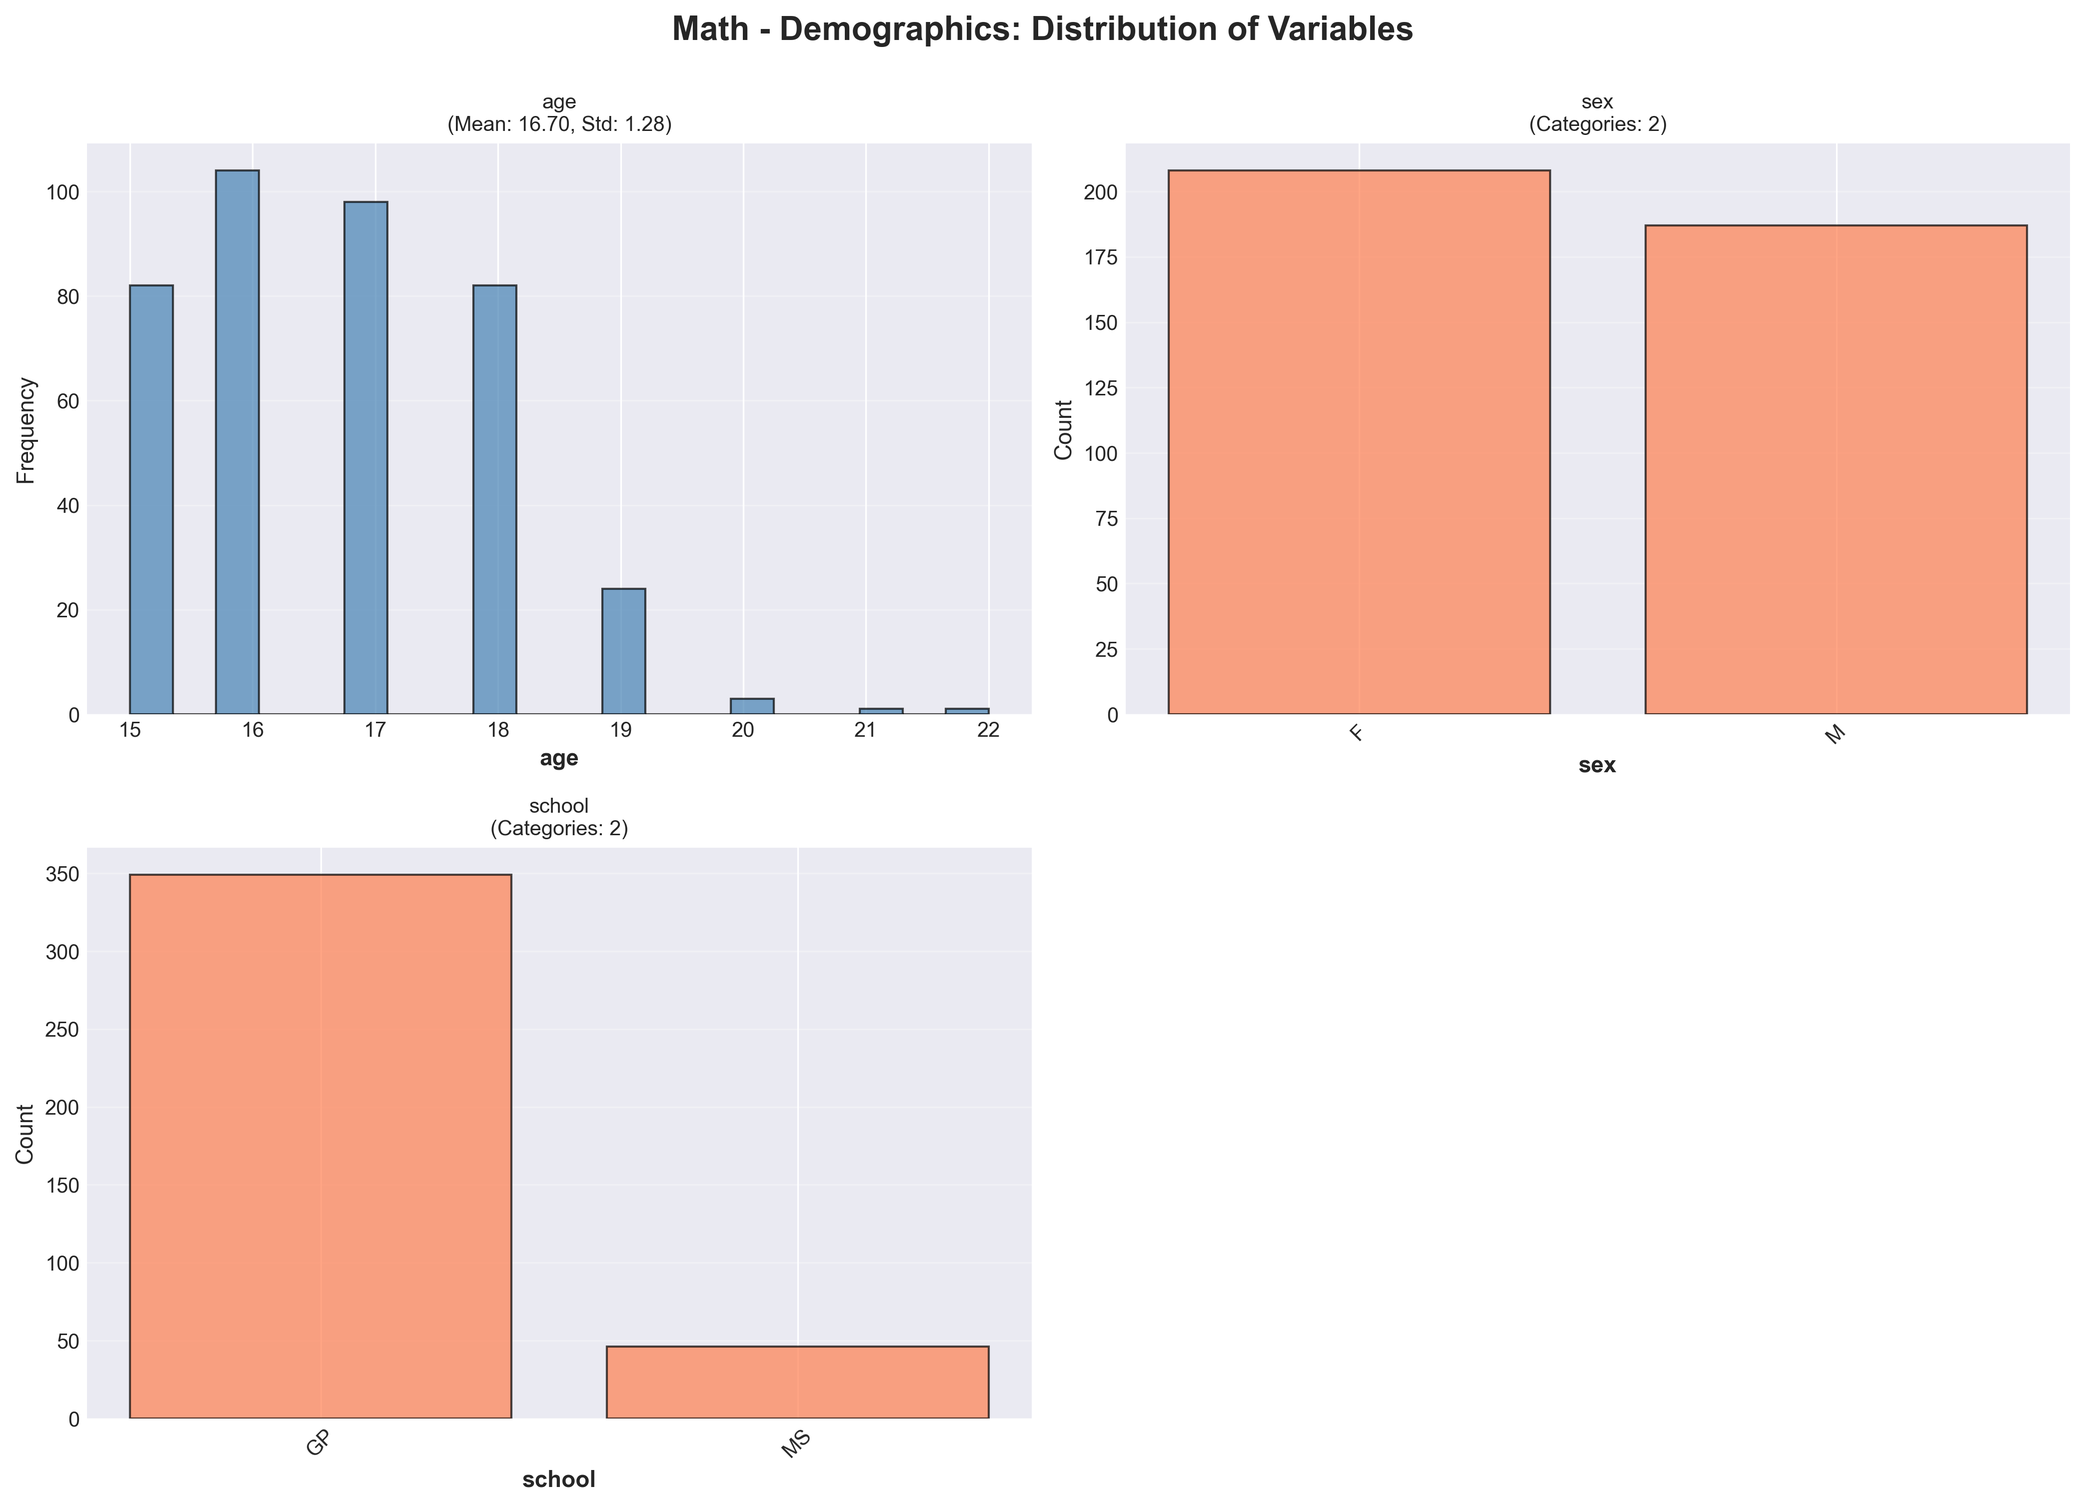
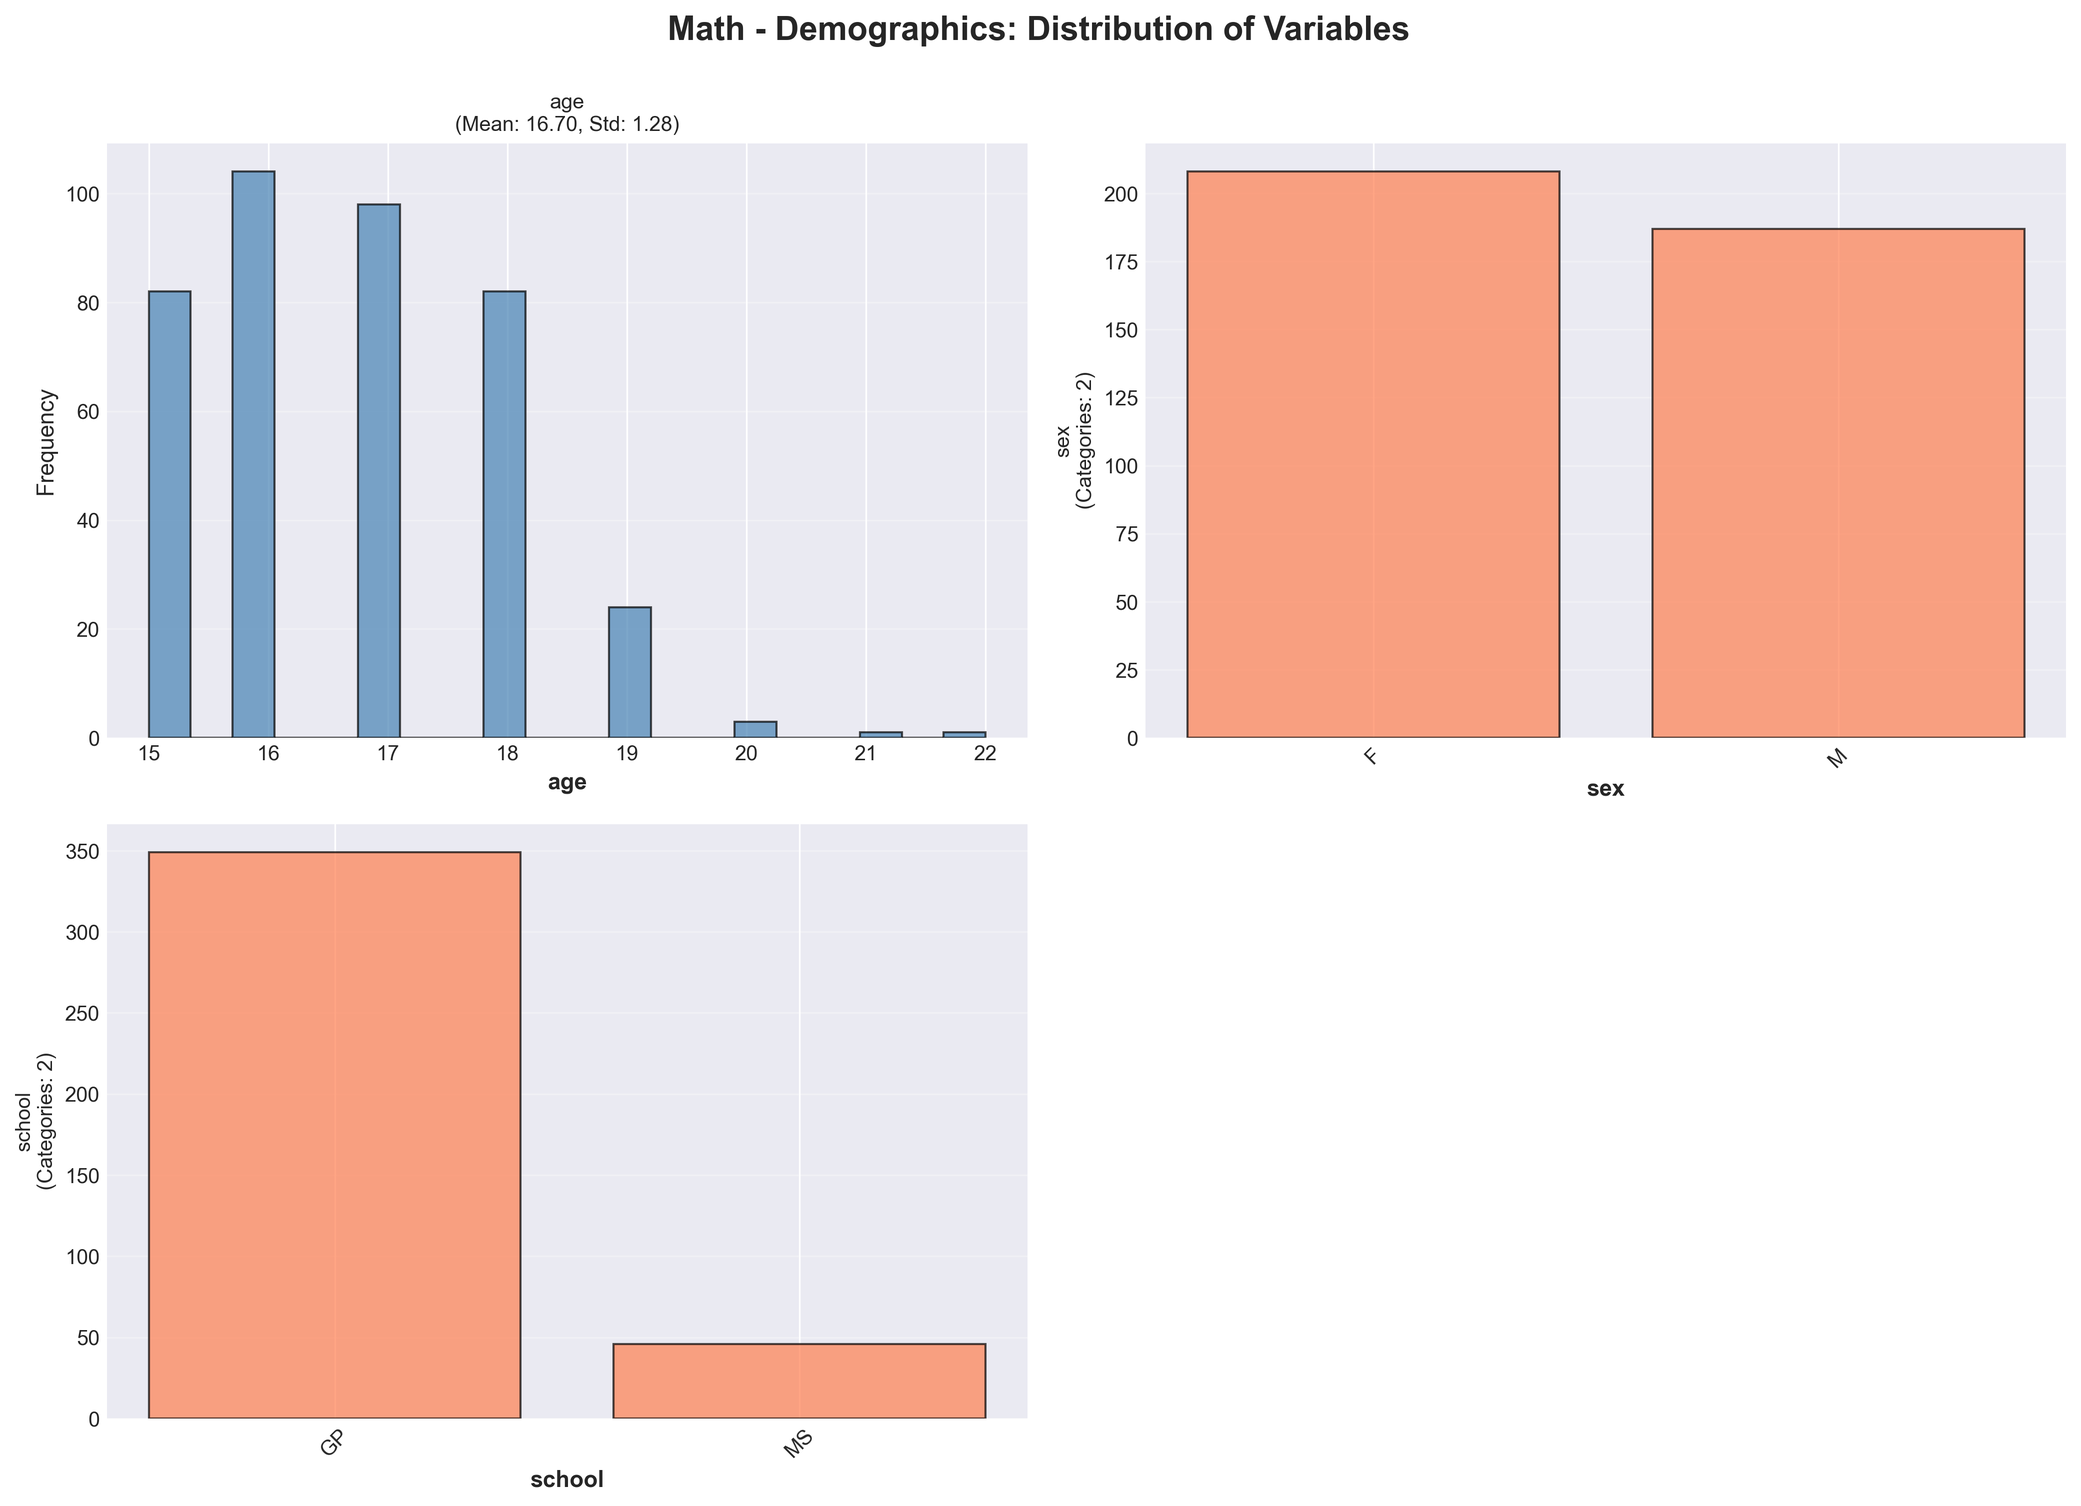
Analyzed and grouped data for portuguese students

diff --git a/portuguese_analysis_grouping.py b/portuguese_analysis_grouping.py
@@ -4,22 +4,24 @@ import matplotlib.pyplot as plt
 import seaborn as sns
 from scipy import stats
 import warnings
+import os
 warnings.filterwarnings('ignore')
 
 plt.style.use('seaborn-v0_8-darkgrid')
 sns.set_palette("husl")
 
 print("="*80)
-print("STUENT PERFORMANCE ANALYSIS - MATH SUBJECT")
+print("STUDENT PERFORMANCE ANALYSIS - PORTUGUESE SUBJECT")
 print("="*80)
 
 #step1 load cleaned data
 
-print("\n📂 STEP 1: LOADING CLEANED DATA")
-print("="*80)
+print("\n STEP 1: LOADING CLEANED DATA")
+print("-"*80)
 
-math_df=pd.read_csv('data/math_cleaned_data.csv')
-print(f"✓ Math dataset loaded: {math_df.shape[0]} students, {math_df.shape[1]} features")
+portuguese_df=pd.read_csv('data/portuguese_cleaned_data.csv')
+print(f"✓ Portuguese dataset loaded: {portuguese_df.shape[0]} students, {portuguese_df.shape[1]} features")
+
 
 #step2 define variable groups
 
@@ -103,56 +105,34 @@ for i, (group,info) in enumerate(variable_groups.items(),1):
     print(f"  {i}. {group}")
     print(f"     {info['description']}")
 
-#step3 create output directories
 
-import os
+#step3 use existing output directories
 
 output_dir='student-performance-predictor/research_output'
-os.makedirs(output_dir, exist_ok=True)
+portuguese_output_dir=os.path.join(output_dir,'portuguese_analysis')
+os.makedirs(portuguese_output_dir,exist_ok=True)
 
-math_output_dir=os.path.join(output_dir,'math_analysis')
-os.makedirs(math_output_dir, exist_ok=True)
+print(f"✓ Output directory ready: {portuguese_output_dir}")
 
-portuguese_output_dir=os.path.join(output_dir, 'portuguese_analysis')
-os.makedirs(portuguese_output_dir, exist_ok=True)
+#step4 function to generate visualizations for a group
 
-comparative_output_dir=os.path.join(output_dir, 'comparative_analysis')
-os.makedirs(comparative_output_dir, exist_ok=True)
-
-print(f"\n✓ Output directories created at: {output_dir}")
-
-#step4 generate visualization for a group
-
-def analyze_group(df, group_name, group_info, subject='Math', save_dir=None):
+def analyze_group(df, group_name, group_info, subject='Portuguese', save_dir=None):
     """
     Analyze a variable group and generate comprehensive visualizations
 
-    Parameters:
-    - df: DataFrame
-    - group_name: Name of the group
-    - group_info: Dictionary with group information
-    - subject: 'Math' or 'Portuguese'
-    - save_dir: Directory to save plots
     """
-
-    variables= group_info['variables'] + group_info['engineered']
+    variables= group_info['variables']+group_info['engineered']
     questions= group_info['questions']
 
     print(f"\n{'='*80}")
     print(f"📊 ANALYZING: {group_name.upper()} ({subject})")
     print(f"{'='*80}")
-    print(f"Description: {group_info['description']}")
-    print(f"Variables: {', '.join(variables)}")
-    print(f"\nResearch Questions:")
-    for i, q in enumerate(questions, 1):
-        print(f"  {i}. {q}")
 
-    #visual1: distribution of variables
-
+    #visual1 distribution of variables
     valid_vars= [v for v in variables if v in df.columns]
 
     if len(valid_vars)>0:
-        fig, axes=plt.subplots(2, 2, figsize=(14, 10))
+        fig, axes= plt.subplots(2, 2, figsize=(14, 10))
         fig.suptitle(f'{subject} - {group_name}: Distribution of Variables',
                      fontsize=16, fontweight='bold', y=1.00)
         
@@ -161,44 +141,40 @@ def analyze_group(df, group_name, group_info, subject='Math', save_dir=None):
         for idx, var in enumerate(valid_vars[:4]):
             ax= axes[idx]
 
-            if df[var].dtype in ['float64','int64']:
-                #histogram
+            if df[var].dtype in ['float64', 'int64']:
                 ax.hist(df[var], bins=20, color='steelblue', edgecolor='black', alpha=0.7)
                 ax.set_xlabel(var, fontsize=11, fontweight='bold')
                 ax.set_ylabel('Frequency', fontsize=11)
                 ax.set_title(f'{var}\n(Mean: {df[var].mean():.2f}, Std: {df[var].std():.2f})',
                              fontsize=10)
                 ax.grid(axis='y', alpha=0.3)
-
             else:
-                #bar plot
-                value_counts= df[var].value_counts()
+                value_counts=df[var].value_counts()
                 ax.bar(range(len(value_counts)), value_counts.values, color='coral', edgecolor='black', alpha=0.7)
                 ax.set_xticks(range(len(value_counts)))
                 ax.set_xticklabels(value_counts.index, rotation=45)
                 ax.set_xlabel(var, fontsize=11, fontweight='bold')
-                ax.set_ylabel(f'{var}\n(Categories: {len(value_counts)})', fontsize=10)
+                ax.set_ylabel('Count', fontsize=11)
+                ax.set_title(f'{var}\n(Categories: {len(value_counts)})', fontsize=10)
                 ax.grid(axis='y', alpha=0.3)
 
-        #hide unused subplots
         for idx in range(len(valid_vars),4):
             axes[idx].axis('off')
-
+        
         plt.tight_layout()
 
         if save_dir:
             filename= f"{group_name.replace(' ', '_').replace('&', 'and')}_01_distributions.png"
             plt.savefig(os.path.join(save_dir, filename), dpi=300, bbox_inches='tight')
-            print(f"  ✓ Saved: {filename}")
+            print(f" ✓ Saved: {filename}")
 
         plt.close()
 
-    #visual2: corr with final grade (G3)
-
+    #visual2 corr with final grade (G3)
     numeric_vars= [v for v in valid_vars if df[v].dtype in ['float64', 'int64']]
 
     if len(numeric_vars)>0:
-        fig, axes=plt.subplots(2, 2, figsize=(14, 10))
+        fig, axes= plt.subplots(2, 2, figsize=(14,10))
         fig.suptitle(f'{subject} - {group_name}: Impact on Final Grade (G3)',
                      fontsize=16, fontweight='bold', y=1.00)
         
@@ -212,18 +188,14 @@ def analyze_group(df, group_name, group_info, subject='Math', save_dir=None):
             y= df.loc[mask, 'G3']
 
             if len(x)>0:
-                #scatter plot with trendline
                 ax.scatter(x, y, alpha=0.5, s=30, color='steelblue', edgecolors='navy')
 
-                #add trendline
                 z= np.polyfit(x, y, 1)
                 p= np.poly1d(z)
                 x_trend= np.linspace(x.min(), x.max(), 100)
                 ax.plot(x_trend, p(x_trend), "r--", linewidth=2, label='Trend')
 
-                #calc corr
                 corr= x.corr(y)
-
 
                 ax.set_xlabel(var, fontsize=11, fontweight='bold')
                 ax.set_ylabel('Final Grade (G3)', fontsize=11, fontweight='bold')
@@ -231,60 +203,57 @@ def analyze_group(df, group_name, group_info, subject='Math', save_dir=None):
                 ax.grid(True, alpha=0.3)
                 ax.legend()
 
-        #hide unused subplots
-        for idx in range(len(numeric_vars),4):
+        for idx in range(len(numeric_vars), 4):
             axes[idx].axis('off')
 
         plt.tight_layout()
 
         if save_dir:
-            filename= f"{group_name.replace(' ','_').replace('&', 'and')}_02_correlation_G3.png"
-            plt.savefig(os.path.join(save_dir,filename), dpi=300, bbox_inches='tight')
-            print(f" ✓ Saved: {filename}")
+            filename= f"{group_name.replace(' ', '_').replace('&', 'and')}_02_correlation_G3.png"
+            plt.savefig(os.path.join(save_dir, filename), dpi=300, bbox_inches='tight')
+            print(f"  ✓ Saved: {filename}")
 
-    #visual3: category comparison (boxplots)
+        plt.close()
 
-    categorical_vars= [v for v in valid_vars if df[v].dtype in ['object', 'str', 'category']]
-
-    if len(categorical_vars)>0:
-        fig, axes= plt.subplots(2, 2, figsize=(14, 10))
-        fig.suptitle(f'{subject} - {group_name}: Performance by Category',
+    #visual3 category comparison
+    categorical_vars = [v for v in valid_vars if df[v].dtype in ['object', 'str', 'category']]
+    
+    if len(categorical_vars) > 0:
+        fig, axes = plt.subplots(2, 2, figsize=(14, 10))
+        fig.suptitle(f'{subject} - {group_name}: Performance by Category', 
                      fontsize=16, fontweight='bold', y=1.00)
         
-        axes= axes.flatten()
-
+        axes = axes.flatten()
+        
         for idx, var in enumerate(categorical_vars[:4]):
-            ax= axes[idx]
-
-            #create boxplot
-            df_temp= df[[var, 'G3']].dropna()
-            if len(df_temp)>0:
+            ax = axes[idx]
+            
+            df_temp = df[[var, 'G3']].dropna()
+            if len(df_temp) > 0:
                 df_temp.boxplot(column='G3', by=var, ax=ax)
                 ax.set_xlabel(var, fontsize=11, fontweight='bold')
                 ax.set_ylabel('Final Grade (G3)', fontsize=11, fontweight='bold')
                 ax.set_title(f'Grades by {var}', fontsize=10)
                 plt.sca(ax)
                 plt.xticks(rotation=45)
-
-        #hide unused subplots
+        
         for idx in range(len(categorical_vars), 4):
             axes[idx].axis('off')
-
+        
         plt.suptitle('')
-        fig.suptitle(f'{subject} - {group_name}: Performance by Category',
-                     fontsize=16, fontweight='bold', y=1.00)
+        fig.suptitle(f'{subject} - {group_name}: Performance by Category', 
+                    fontsize=16, fontweight='bold', y=1.00)
         
         plt.tight_layout()
-
+        
         if save_dir:
-            filename= f"{group_name.replace(' ', '_').replace('&', 'and')}_03_category_comparison.png"
+            filename = f"{group_name.replace(' ', '_').replace('&', 'and')}_03_category_comparison.png"
             plt.savefig(os.path.join(save_dir, filename), dpi=300, bbox_inches='tight')
             print(f"  ✓ Saved: {filename}")
-
+        
         plt.close()
 
-    #visual4: summary statistics table
-
+    #summary stats
     print(f"\n  📈 Summary Statistics for {group_name}:")
     print(f" {'-'*75}")
 
@@ -294,90 +263,89 @@ def analyze_group(df, group_name, group_info, subject='Math', save_dir=None):
         if var in df.columns:
             mask= ~df[var].isna()
             if mask.sum()>0:
-                stats_dict={
-                    'Variables': var,
-                    'Mean': f"{df.loc[mask, var].std():.2f}",
+                stats_dict= {
+                    'Variable': var,
+                    'Mean': f"{df.loc[mask, var].mean():.2f}",
                     'Std Dev': f"{df.loc[mask, var].std():.2f}",
                     'Min': f"{df.loc[mask, var].min():.2f}",
                     'Max': f"{df.loc[mask, var].max():.2f}",
                     'Corr with G3': f"{df.loc[mask, var].corr(df.loc[mask, 'G3']):.3f}"
+
                 }
                 summary_stats.append(stats_dict)
                 print(f" {var}: Mean={stats_dict['Mean']}, Corr with G3={stats_dict['Corr with G3']}")
-    
     print()
 
     return summary_stats
 
 
-#step5 analyze each group for math
+#step5 Analyze each group for portuguese
 
-print("\n"+"="*80)
-print("🎯 STARTING MATH ANALYSIS")
+print("\n" + "="*80)
+print("🎯 STARTING PORTUGUESE ANALYSIS")
 print("="*80)
 
-all_summaries_math= {}
+all_summaries_portuguese={}
 
 for group_name, group_info in variable_groups.items():
     try:
-        summary= analyze_group(math_df, group_name, group_info, subject='Math', save_dir=math_output_dir)
-        all_summaries_math[group_name]= summary
+        summary= analyze_group(portuguese_df, group_name, group_info,
+                               subject='Portuguese', save_dir=portuguese_output_dir)
+        all_summaries_portuguese[group_name]= summary
     except Exception as e:
         print(f"⚠ Error analyzing {group_name}: {str(e)}")
         continue
 
-#step6 save research summary for math
+#step6 save research summary for portuguese
 
 print("\n"+"="*80)
 print("💾 SAVING RESEARCH SUMMARY")
 print("="*80)
 
-summary_file= os.path.join(math_output_dir, 'research_summary_math.txt')
+summary_file= os.path.join(portuguese_output_dir, 'resarch_summary_portuguese.txt')
 
 with open(summary_file, 'w') as f:
-    f.write("="*80 + "\n")
-    f.write("STUDENT PERFORMANCE ANALYSIS - MATH SUBJECT\n")
+    f.write("="*80+"\n")
+    f.write("STUDENT PERFORMANCE ANALYSIS - PORTUGUESE SUBJECT\n")
     f.write("RESEARCH SUMMARY\n")
-    f.write("="*80 +"\n\n")
-
+    f.write("="*90 + "\n\n")
+    
     for group_name, group_info in variable_groups.items():
         f.write(f"\n{group_name.upper()}\n")
-        f.write(f"{'-'*80}\n")
+        f.write(f"{'-'*90}\n")
         f.write(f"Description: {group_info['description']}\n\n")
         f.write(f"Research Questions:\n")
-        for i, q in enumerate(group_info['questions'],1):
+        for i, q in enumerate(group_info['questions'], 1):
             f.write(f"  {i}. {q}\n")
-        f.write(f"\nVariables Analyzed: {', '.join(group_info['variables']+group_info['engineered'])}\n")
+        f.write(f"\nVariables Analyzed: {', '.join(group_info['variables'] + group_info['engineered'])}\n")
         f.write("\n")
-
+ 
 print(f"✓ Research summary saved to: {summary_file}")
 
-#step7 overall statisticts
+#step7 overall statistics
 
 print("\n" + "="*90)
-print("📊 MATH DATASET - OVERALL STATISTICS")
+print("📊 PORTUGUESE DATASET - OVERALL STATISTICS")
 print("="*90)
  
-print(f"\nDataset Shape: {math_df.shape}")
-print(f"Total Students: {len(math_df)}")
+print(f"\nDataset Shape: {portuguese_df.shape}")
+print(f"Total Students: {len(portuguese_df)}")
 print(f"\nFinal Grade (G3) Statistics:")
-print(f"  Mean: {math_df['G3'].mean():.2f}")
-print(f"  Median: {math_df['G3'].median():.2f}")
-print(f"  Std Dev: {math_df['G3'].std():.2f}")
-print(f"  Min: {math_df['G3'].min():.0f}")
-print(f"  Max: {math_df['G3'].max():.0f}")
+print(f"  Mean: {portuguese_df['G3'].mean():.2f}")
+print(f"  Median: {portuguese_df['G3'].median():.2f}")
+print(f"  Std Dev: {portuguese_df['G3'].std():.2f}")
+print(f"  Min: {portuguese_df['G3'].min():.0f}")
+print(f"  Max: {portuguese_df['G3'].max():.0f}")
  
 print(f"\nStudent Categories:")
-print(f"  High Achievers (G3 >= 15): {(math_df['G3'] >= 15).sum()} ({(math_df['G3'] >= 15).mean()*100:.1f}%)")
-print(f"  Average (10 <= G3 < 15): {((math_df['G3'] >= 10) & (math_df['G3'] < 15)).sum()} ({((math_df['G3'] >= 10) & (math_df['G3'] < 15)).mean()*100:.1f}%)")
-print(f"  Struggling (G3 < 10): {(math_df['G3'] < 10).sum()} ({(math_df['G3'] < 10).mean()*100:.1f}%)")
+print(f"  High Achievers (G3 >= 15): {(portuguese_df['G3'] >= 15).sum()} ({(portuguese_df['G3'] >= 15).mean()*100:.1f}%)")
+print(f"  Average (10 <= G3 < 15): {((portuguese_df['G3'] >= 10) & (portuguese_df['G3'] < 15)).sum()} ({((portuguese_df['G3'] >= 10) & (portuguese_df['G3'] < 15)).mean()*100:.1f}%)")
+print(f"  Struggling (G3 < 10): {(portuguese_df['G3'] < 10).sum()} ({(portuguese_df['G3'] < 10).mean()*100:.1f}%)")
  
 print("\n" + "="*90)
-print("✅ MATH ANALYSIS COMPLETE!")
+print("✅ PORTUGUESE ANALYSIS COMPLETE!")
 print("="*90)
-print(f"\nAll visualizations saved to: {math_output_dir}")
-print(f"\nNext Step: Generate same analysis for Portuguese subject")
-print(f"Then: Compare Math vs Portuguese patterns")
-print(f"Finally: Build ML models for both subjects")
+print(f"\nAll visualizations saved to: {portuguese_output_dir}")
+print(f"\nNext Step: Compare Math vs Portuguese patterns")
+print(f"Then: Build ML models for both subjects")
 print("\n" + "="*90)
- 
